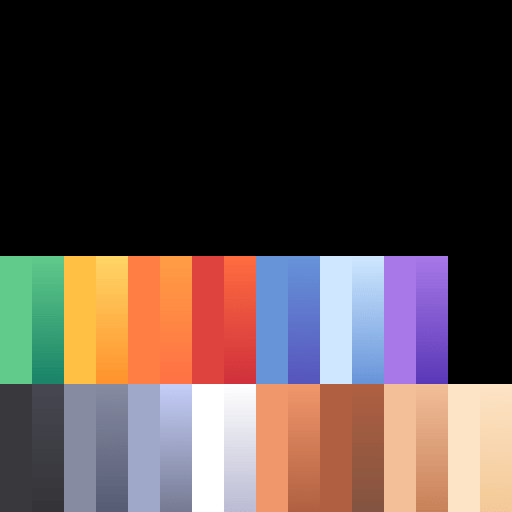
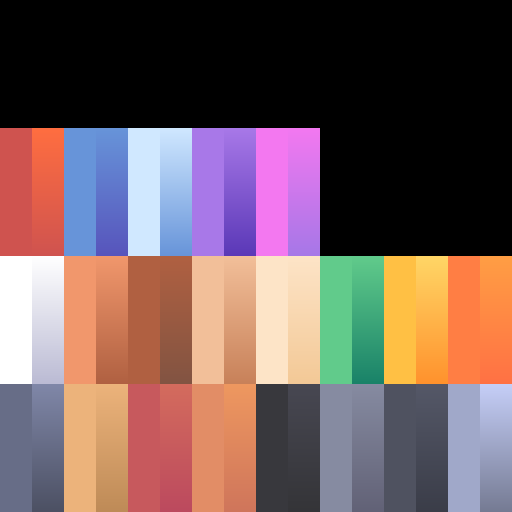
wind gusts

diff --git a/scripts/Trail/GPUTrail3D.cs b/scripts/Trail/GPUTrail3D.cs
@@ -1,0 +1,87 @@
+using Godot;
+
+namespace TnT.EduGame;
+
+[Tool]
+[GlobalClass]
+public partial class GPUTrail3D : GpuParticles3D
+{
+    private ShaderMaterial _drawMaterial;
+    private bool _readyDone;
+
+    private int _length = 60;
+    [Export]
+    public int Length
+    {
+        get => _length;
+        set
+        {
+            _length = Mathf.Max(value, 1);
+            if (!_readyDone) return;
+            Amount = _length;
+            Lifetime = _length;
+            Restart();
+        }
+    }
+    [Export]
+    public bool ClearTrail
+    {
+        get => false;
+        set { if (value) Restart(); }
+    }
+
+    [ExportCategory("Appearance")]
+    private GradientTexture1D _colorRamp;
+    [Export]
+    public GradientTexture1D ColorRamp
+    {
+        get => _colorRamp;
+        set
+        {
+            _colorRamp = value;
+            _drawMaterial?.SetShaderParameter("color_ramp", _colorRamp);
+        }
+    }
+
+    private CurveTexture _widthCurve;
+    [Export]
+    public CurveTexture WidthCurve
+    {
+        get => _widthCurve;
+        set
+        {
+            _widthCurve = value;
+            _drawMaterial?.SetShaderParameter("width_curve", _widthCurve);
+        }
+    }
+
+    public override void _Ready()
+    {
+        Amount = _length;
+        Lifetime = _length;
+        Explosiveness = 1.0f;
+        FixedFps = 60;
+        OneShot = false;
+
+        var processMat = new ShaderMaterial
+        {
+            Shader = GD.Load<Shader>("res://scripts/Trail/trail_process.gdshader")
+        };
+        ProcessMaterial = processMat;
+
+        _drawMaterial = new ShaderMaterial
+        {
+            Shader = GD.Load<Shader>("res://scripts/Trail/trail_draw.gdshader"),
+            ResourceLocalToScene = true
+        };
+
+        var mesh = new QuadMesh { Material = _drawMaterial };
+        DrawPass1 = mesh;
+
+        _readyDone = true;
+
+        // flush pending inspector values into shader
+        ColorRamp = _colorRamp;
+        WidthCurve = _widthCurve;
+    }
+}